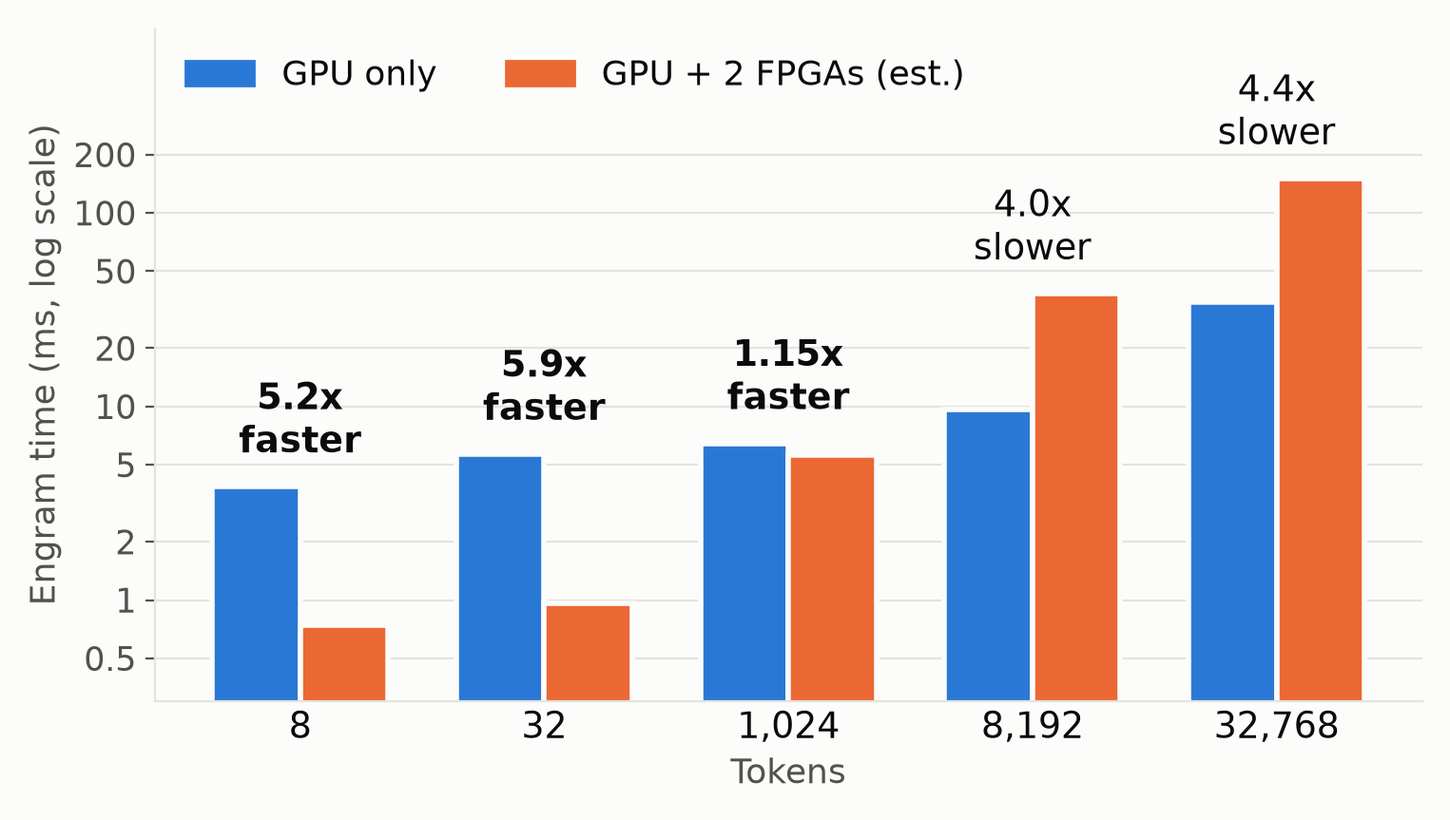
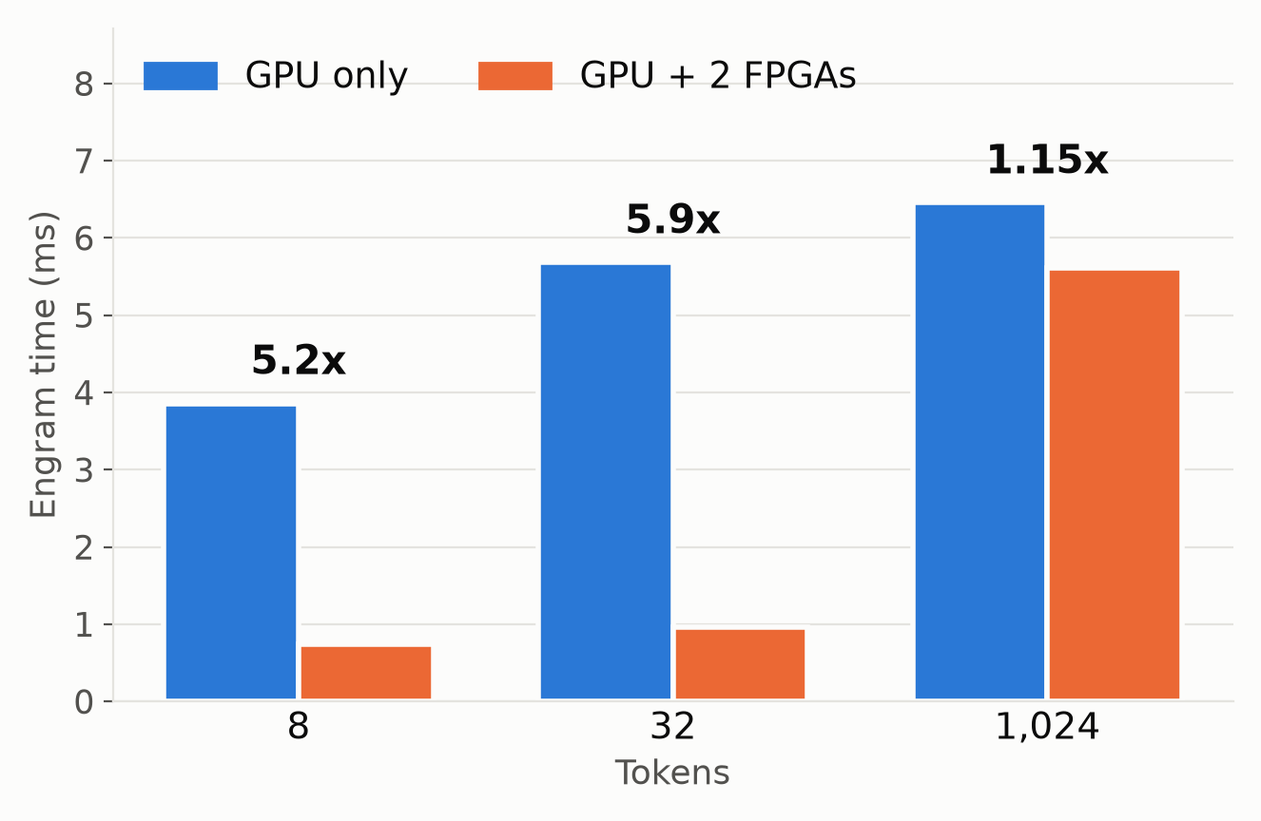
update blogs

diff --git a/figs/src/make_figs.py b/figs/src/make_figs.py
@@ -164,32 +164,28 @@ def load_fpga():
 
 
 def fig_fpga_results():
-    rows = load_fpga()
-    fig, ax = plt.subplots(figsize=(8.6, 4.6))
+    """Only the token counts where the GPU + 2 FPGAs estimate is faster than the GPU alone."""
+    rows = [r for r in load_fpga() if r["engram_gpu"] > r["boards2"]]
+    fig, ax = plt.subplots(figsize=(7.6, 4.6))
     w = 0.36
+    top = max(r["engram_gpu"] for r in rows)
     for i, r in enumerate(rows):
         g, f2 = r["engram_gpu"], r["boards2"]
         ax.bar(i - w / 2, g, width=w, color=NKI, edgecolor=SURF, linewidth=2)
         ax.bar(i + w / 2, f2, width=w, color=GP, edgecolor=SURF, linewidth=2)
         sp = g / f2
-        lab = (f"{sp:.2f}x\nfaster" if sp < 1.5 else f"{sp:.1f}x\nfaster") if sp >= 1 else f"{1 / sp:.1f}x\nslower"
-        ax.text(i, max(g, f2) * 1.3, lab, ha="center", va="bottom", fontsize=13.5, color=INK,
-                weight="bold" if sp >= 1 else "normal")
-    ax.set_yscale("log")
-    ax.set_ylim(0.3, 900)
-    ticks = [0.5, 1, 2, 5, 10, 20, 50, 100, 200]
-    ax.set_yticks(ticks)
-    ax.set_yticklabels([f"{t:g}" for t in ticks])
-    ax.minorticks_off()
+        ax.text(i, max(g, f2) + top * 0.04, f"{sp:.2f}x" if sp < 1.5 else f"{sp:.1f}x",
+                ha="center", va="bottom", fontsize=15, color=INK, weight="bold")
+    ax.set_ylim(0, top * 1.35)
     ax.set_xticks(range(len(rows)))
-    ax.set_xticklabels([f"{int(r['tokens']):,}" for r in rows], color=INK, fontsize=13.5)
+    ax.set_xticklabels([f"{int(r['tokens']):,}" for r in rows], color=INK, fontsize=14)
     ax.set_xlabel("Tokens")
-    ax.set_ylabel("Engram time (ms, log scale)")
+    ax.set_ylabel("Engram time (ms)")
     ax.yaxis.grid(True, color=GRID, lw=0.8)
     ax.set_axisbelow(True)
     ax.tick_params(axis="x", length=0)
-    ax.legend(handles=[Patch(color=NKI, label="GPU only"), Patch(color=GP, label="GPU + 2 FPGAs (est.)")],
-              loc="upper left", frameon=False, ncol=2, fontsize=13)
+    ax.legend(handles=[Patch(color=NKI, label="GPU only"), Patch(color=GP, label="GPU + 2 FPGAs")],
+              loc="upper left", frameon=False, ncol=2, fontsize=13.5)
     save(fig, "fig04_fpga_results.png")
 
 

diff --git a/BLOG.md b/BLOG.md
@@ -14,102 +14,68 @@
 
 #### Table of Contents
 
-- [1. Introduction](#1-introduction)
-  - [1.1 Heterogeneity of Computation Properties in LLMs](#11-heterogeneity-of-computation-properties-in-llms)
-  - [1.2 Example: Engram in DeepSeek-V4.1-Flash, and How We Accelerate It on a GPU-FPGA System](#12-example-engram-in-deepseek-v41-flash-and-how-we-accelerate-it-on-a-gpu-fpga-system)
-  - [1.3 Native Hardware Heterogeneity of Trainium](#13-native-hardware-heterogeneity-of-trainium)
-- [2. What Computation Should We Offload to the GPSIMD Engine?](#2-what-computation-should-we-offload-to-the-gpsimd-engine)
-- [3. Build and Use GPSIMD Custom Operators with NKI](#3-build-and-use-gpsimd-custom-operators-with-nki)
-  - [3.1 Overall Development and Deployment Flow](#31-overall-development-and-deployment-flow)
-  - [3.2 Write Operators in C++](#32-write-operators-in-c)
-  - [3.3 Integrate the Custom Operator with NKI](#33-integrate-the-custom-operator-with-nki)
-  - [3.4 Runtime: What Happens Under the Hood](#34-runtime-what-happens-under-the-hood)
-- [4. Accelerating Engram in DeepSeek-V4.1-Flash with the GPSIMD Engine](#4-accelerating-engram-in-deepseek-v41-flash-with-the-gpsimd-engine)
-  - [4.1 n-gram Hashing](#41-n-gram-hashing)
-  - [4.2 Table Retrieval](#42-table-retrieval)
-  - [4.3 Other Optimization Considerations](#43-other-optimization-considerations)
-  - [4.4 Results and Analysis](#44-results-and-analysis)
-- [5. What Other Operations Can GPSIMD Help With?](#5-what-other-operations-can-gpsimd-help-with)
-- [6. Limitations](#6-limitations)
-- [7. Acknowledgement](#7-acknowledgement)
+- [Introduction](#introduction)
+  - [Heterogeneity of Computation Properties in LLMs](#heterogeneity-of-computation-properties-in-llms)
+  - [Example: Engram in DeepSeek-V4.1-Flash, and How We Accelerate It on a GPU-FPGA System](#example-engram-in-deepseek-v41-flash-and-how-we-accelerate-it-on-a-gpu-fpga-system)
+  - [Native Hardware Heterogeneity of Trainium](#native-hardware-heterogeneity-of-trainium)
+- [What Computation Should We Offload to the GPSIMD Engine?](#what-computation-should-we-offload-to-the-gpsimd-engine)
+- [Build and Use GPSIMD Custom Operators with NKI](#build-and-use-gpsimd-custom-operators-with-nki)
+  - [Overall Development and Deployment Flow](#overall-development-and-deployment-flow)
+  - [Write Operators in C++](#write-operators-in-c)
+  - [Integrate the Custom Operator with NKI](#integrate-the-custom-operator-with-nki)
+  - [Runtime: What Happens Under the Hood](#runtime-what-happens-under-the-hood)
+- [Accelerating Engram in DeepSeek-V4.1-Flash with the GPSIMD Engine](#accelerating-engram-in-deepseek-v41-flash-with-the-gpsimd-engine)
+  - [n-gram Hashing](#n-gram-hashing)
+  - [Table Retrieval](#table-retrieval)
+  - [Other Optimization Considerations](#other-optimization-considerations)
+  - [Results and Analysis](#results-and-analysis)
+- [What Other Operations Can GPSIMD Help With?](#what-other-operations-can-gpsimd-help-with)
+- [Limitations](#limitations)
+- [Acknowledgement](#acknowledgement)
 
 ---
 
-### 1. Introduction
+### Introduction
 
-#### 1.1 Heterogeneity of Computation Properties in LLMs
+#### Heterogeneity of Computation Properties in LLMs
 
-Modern LLMs depend on mechanisms that select and read a small part of a large memory: sparse attention selects key-value entries, retrieval-augmented generation (RAG) selects documents, and compressed memories select memory slots. Our study of these mechanisms [1] showed that all of the mechanisms share one **memory processing pipeline** of four steps (Figure 2):
+Modern LLMs depend on complex mechanisms to manage their memory: sparse attention selects key-value entries, retrieval-augmented generation (RAG) selects documents, and compressed memories select memory slots. Prior works published in ICML 2026 [1] showed that these mechanisms share a **memory processing pipeline** of four steps (Figure 2):
 
 1. **Prepare Memory**: turn the memory into a form that is easy to search and use (for example, indexing vectors).
 2. **Compute Relevancy**: score or identify the memory entries that matter for the current input.
 3. **Retrieval**: select and fetch the relevant subset.
 4. **Apply to Inference**: feed the retrieved memory into the rest of the model.
 
-The profiles in [1] showed that memory processing takes a large share of inference time (for example, 22% to 81% of decoding time for sparse attention at 1M tokens, and 40% to 61% for RAG over 20M documents). The steps also have very different computational characteristics. Prepare Memory and Apply to Inference are usually dense and regular. Compute Relevancy and Retrieval are often sparse, irregular, data-dependent and memory-bound, and GPUs leave much of their compute and memory bandwidth unused on such steps. [1] therefore **disaggregated** the pipeline over a GPU-FPGA heterogeneous inference system [2]: the dense steps stayed on the GPU and the irregular steps moved to the FPGA, for up to 2.2x faster inference and up to 4.7x lower energy. [1] also found that the cost of moving data over PCIe sometimes overrules the preferred placement of a step.
+The key is that these steps have very different computational characteristics. Some steps are dense and regular computations, whereas others are irregular and data dependent. Therefore, a natural approach of acceleration is **fine-grain disaggregated** inference on **heterogeneous platforms**. [1] applies a GPU-FPGA heterogeneous system [2]: the dense steps stayed on the GPU and the irregular steps moved to the FPGA, for up to 2.2x faster inference and up to 4.7x lower energy. Such methodology is also transferable to more recent LLMs.
 
 ![Figure 2: the memory processing pipeline](figs/fig02_pipeline.png)
 *Figure 2. The four-step memory processing pipeline in LLMs, from [1].*
 
-#### 1.2 Example: Engram in DeepSeek-V4.1-Flash, and How We Accelerate It on a GPU-FPGA System
+#### Example: Engram in DeepSeek-V4.1-Flash, and How We Accelerate It on a GPU-FPGA System
 
-**Engram** [3] gives a language model a large, hashed n-gram memory. For every token, the model hashes the token together with the preceding tokens, looks up learned vectors for the resulting n-grams in a huge table, and adds a gated projection of the vectors to the hidden state. DeepSeek-V4.1-Flash has Engram in layers 1 and 14. The four steps of its memory processing pipeline are:
+DeepSeek-V4.1-Flash [3] is the recent 40-layer mixture-of-experts (MoE) reasoning model from DeepSeek. It combines sparse attention with MoE layers of 384 routed experts, 6 of which serve each token. Layers 1 and 14 also have an **Engram** module [4] that gives the model a large n-gram memory. For each token, Engram hashes the token and its preceding tokens into row ids, reads these rows from a large learned table, and adds a gated projection of the rows to the hidden state. Engram maps to the memory processing pipeline as follows:
 
-- **Prepare Memory.** The table is trained offline: 384M rows of 256 bf16 values, sharded by row over 64 ranks (6.0M rows, 3.1 GB per rank). At run time, NKI collects each token's n-gram window: the token's compressed id and the ids of the 3 preceding tokens.
-- **Compute Relevancy.** An n-gram hash turns each window into row ids. For each n-gram size n = 2, 3, 4, every token id in the window is multiplied by a 64-bit constant for its position, the products are combined with XOR, and the result is reduced modulo one of 8 primes (all just above 16M), plus an offset per hash column. Each token gets 3 × 8 = 24 row ids per Engram layer. Unlike sparse attention, the relevancy is a deterministic address, not a score.
-- **Retrieval.** Each rank gathers the rows that the rank holds into an embedding `emb` of shape [T, 24 × 256] and leaves the other rows zero; an all-reduce over the 64 ranks completes `emb`.
-- **Apply to Inference.** An fp8 MX GEMM projects `emb` from 6144 to 25600 values (5 × 5120: 4 keys and 1 value), and a gate adds the value to each of the 4 residual streams, scaled by a normalized dot product of the stream's hidden state and its key.
+- **Prepare Memory.** The table is trained offline. In DeepSeek-V4.1-Flash, each Engram layer has 384M rows of 256 bf16 values. At run time, each token's n-gram window is collected: the token's compressed id and the ids of the 3 preceding tokens.
+- **Compute Relevancy.** An n-gram hash turns each window into row ids. For n = 2, 3, 4, the hash multiplies each token id by a 64-bit constant, combines the products with XOR, and reduces the result modulo one of 8 primes of about 16M. Each token gets 3 × 8 = 24 row ids per layer.
+- **Retrieval.** The 24 rows of each token are read into an embedding `emb` of shape [T, 24 × 256].
+- **Apply to Inference.** A GEMM projects `emb` to 4 keys and 1 value of 5120 values each. A gate adds the value to each of the 4 residual streams, scaled by the dot product of the stream's hidden state and its key.
 
-The steps have different computational characteristics. Compute Relevancy is 64-bit integer arithmetic, and Retrieval is a data-dependent lookup with irregular, non-consecutive memory accesses. Apply to Inference is dense floating-point work: a GEMM and a gate.
+We also tried to deploy Engram on our GPU-FPGA heterogeneous system to demonstrate the effectiveness of such abstraction [2]. Here we use the original demo of Engram in [5]:
 
-We applied the disaggregation of [1] to Engram on a GPU-FPGA system. The GPU-FPGA implementation is part of HeteroLLM [2]. The experiment uses the reference configuration that DeepSeek released with the Engram paper [4], not the configuration of DeepSeek-V4.1-Flash that the rest of this blog uses, so the times in this section do not compare directly with the Trainium times later in the blog:
-
-| | Engram reference configuration [4] (GPU-FPGA experiment) | DeepSeek-V4.1-Flash [5] (Trainium experiments) |
-|---|---|---|
-| Hidden size × residual streams | 1024 × 4 | 5120 × 4 |
-| n-gram sizes × hash heads | {2, 3} × 8 = 16 lookups per token | {2, 3, 4} × 8 = 24 lookups per token |
-| Table rows per hash head | about 646K | about 16M |
-| Values per table row | 64 | 256 |
-| Memory vector `e` per token | 1024 values | 6144 values |
-| Key and value projection | 1024 -> 5 × 1024 (4 keys, 1 value) | 6144 -> 5 × 5120 (4 keys, 1 value) |
-
-**Setup.** The GPU is an AMD Instinct MI210, and the FPGA is an AMD Alveo U55C board with 16 GB of HBM. The FPGA kernel is written in TAPA (C++ high-level synthesis) and computes with 16-bit fixed-point tables and weights. The GPU-only baseline is the reference PyTorch implementation of Engram [4]: the reference code computes the hash on the host CPU with numpy, copies the ids to the GPU, and runs the other stages as PyTorch operators in fp32.
-
-The Engram module of one layer has five stages. Figure 3 shows how we split the stages between the FPGA and the GPU:
-
-- **FPGA**: the multiply-XOR hash of each n-gram (Compute Relevancy), the load of the 16 embedding rows of each token from the hashed tables (Retrieval), and the key and value projections of the loaded embeddings. The hash unit takes one token per cycle and computes all 16 table ids in parallel. 16 lookup units, one per hash head, read the rows from separate HBM channels. 8 projection units keep the 5120 × 1024 weight matrix in on-chip memory (URAM), each unit with 128 of the 1024 columns, and add their partial results in a chain.
-- **GPU**: three HIP kernels. The gate normalizes the key and the hidden state of each branch, computes a scaled dot product, and scales the value by a sigmoid of the dot product. The short convolution normalizes the gated value and applies a depthwise causal convolution (kernel 4, dilation 3) and SiLU. The last kernel adds the residual.
-
-The cut follows the data dependencies. The hash, the load and the projections depend only on the token ids, so the FPGA computes these stages without the hidden state. The gate and the convolution need the hidden state, which the GPU produces in the previous layer. The FPGA writes the keys and the value of every token (5 × 1024 fp32 values, 20 KB) into a buffer in its HBM that the GPU can read over PCIe.
+- **FPGA: Compute Relevancy, Retrieval, and the key and value projections.** A hash unit computes the 16 row ids of one token per cycle. 16 lookup units read the rows from separate HBM channels. 8 projection units keep the weights in on-chip memory.
+- **GPU: the gate, a short convolution, and the residual add.** These steps need the hidden state from the previous layer.
 
 ![Figure 3: the GPU-FPGA split of Engram](figs/fig03_fpga_split.png)
-*Figure 3. The GPU-FPGA split of the Engram module in HeteroLLM [2]. The FPGA runs the steps that depend only on the token ids; the GPU runs the steps that need the hidden state h. Engram reference configuration [4] (hidden size 1024), not DeepSeek-V4.1-Flash.*
+*Figure 3. The GPU-FPGA split of Engram in HeteroLLM [2]. h is the hidden state.*
 
-On the GPU alone, at 1024 tokens, the module takes 6.46 ms: 1.26 ms for the hash, 0.38 ms for the load, 3.85 ms for the projections and the gate together, and 0.87 ms for the convolution. The table below lists all measurements. The GPU-FPGA time is the FPGA kernel time plus the GPU kernel time, without overlap between the two devices and without the transfer of the keys and the value. The two-board time is an estimate: the FPGA time is divided by two, as if each board processes half of the tokens.
-
-| Tokens | Engram, GPU only (reference code) | Engram, GPU + FPGA: FPGA part (1 board) | GPU part | Engram, GPU + 2 FPGA boards (estimate) | Speedup with 2 boards |
-|---:|---:|---:|---:|---:|---:|
-| 8 | 3.86 ms | 0.39 ms | 0.55 ms | 0.74 ms | **5.2x** |
-| 32 | 5.68 ms | 0.59 ms | 0.66 ms | 0.96 ms | **5.9x** |
-| 1,024 | 6.46 ms | 9.51 ms | 0.86 ms | 5.61 ms | 1.15x |
-| 8,192 | 9.68 ms | 73.3 ms | 1.61 ms | 38.3 ms | 0.25x |
-| 32,768 | 34.4 ms | 295.2 ms | 2.98 ms | 150.6 ms | 0.23x |
+The baseline is the reference code [5] on the GPU, which computes the hash on the host CPU. With 2 AMD U55C FPGAs and 1 AMD MI210 GPU, Engram is 5.2x faster at 8 tokens, 5.9x faster at 32 tokens and 1.15x faster at 1024 tokens. The gain is largest at few tokens, as in decode. There, most of the baseline time is a fixed cost per call: the hash on the host, the copy of the ids, and many small GPU operators. At 8 tokens, the baseline spends 0.98 ms on the hash alone, while the FPGA takes 0.39 ms for the hash, the lookup and the projections together. 
 
 ![Figure 4: Engram on the GPU alone and on the GPU with 2 FPGA boards](figs/fig04_fpga_results.png)
-*Figure 4. The Engram module on the GPU alone (reference PyTorch code) and on the GPU with 2 FPGA boards (estimated as the FPGA time divided by 2, plus the GPU time). Engram reference configuration [4], not DeepSeek-V4.1-Flash.*
+*Figure 4. Engram on the GPU alone and on the GPU with 2 FPGA boards. Engram reference configuration [5].*
 
-Figure 4 shows two regimes:
+The prototype shows that Engram gains from moving its irregular steps to flexible hardware. This technique is transferable to AWS Trainium devices: Trainium NeuronCore is natively heterogeneous.
 
-- **Few tokens: the split wins.** For 8 and 32 tokens, the GPU-only version takes 3.86 ms and 5.68 ms. The GPU-only time hardly depends on the number of tokens: 128 times more tokens (8 to 1024) take only 1.7 times longer. Most of the GPU-only time is therefore a fixed cost per call, such as the hash on the host, the copy of the ids and the launch of many small operators, not work per token. In the GPU-only version, the hash alone takes 0.98 ms for 8 tokens, 2.5 times the 0.39 ms that the FPGA needs for the hash, the load and the projections together. With two boards, the module becomes 5.2x faster for 8 tokens and 5.9x faster for 32 tokens. A decode step processes few tokens, so decode falls in this regime. Part of the gain comes from the implementation and not only from the hardware: the baseline is the unoptimized reference code, while the GPU side of the split uses fused HIP kernels.
-- **Many tokens: the split loses.** From 1024 tokens on, the FPGA time grows in proportion to the number of tokens (about 9 µs per token), while the GPU-only time grows slowly (from 6.46 ms at 1024 tokens to 34.4 ms at 32768 tokens). The hash and the load take little time per token on the FPGA, but the projections multiply each memory vector by the 5120 × 1024 weight matrix: 5.2M multiply-accumulates per token, or about 0.6 trillion multiply-accumulates per second at 9 µs per token. The GPU runs the same dense projection much faster. At 8192 and 32768 tokens, the GPU-FPGA version is 4.0x and 4.4x slower than the GPU alone, even with two boards and without counting the transfers. Four boards would still be 2.1x and 2.2x slower (estimated the same way).
-
-The experiment gives three lessons for a disaggregated design:
-
-1. **Irregular steps gain the most from flexible hardware, especially at small sizes.** The hash and the table load are integer and memory steps; the GPU reference code does not even run the hash on the GPU.
-2. **Dense steps must stay on dense hardware at every size.** The projections on the FPGA limit the split at long sequences.
-3. **The hand-off between the devices limits where the cut can go.** As [1] also found, every cut between a GPU and an FPGA adds a PCIe transfer and a synchronization.
-
-#### 1.3 Native Hardware Heterogeneity of Trainium
+#### Native Hardware Heterogeneity of Trainium
 
 **AWS Trainium** is a family of AI accelerators designed by Annapurna Labs. A trn3.48xlarge instance exposes 64 logical NeuronCores (each made of 2 physical NeuronCores). Like Trainium 2, a Trainium 3 NeuronCore is a heterogeneous processor (Figure 5). The **Tensor Engine** is a 128x128 systolic array for matrix multiplication. The **Vector Engine** and the **Scalar Engine** apply element-wise operations, reductions and activation functions to tiles of up to 128 partitions. The **Sync Engine** issues queued DMA transfers. All engines read and write the on-chip **SBUF**, and the Tensor Engine accumulates into **PSUM**.
 
@@ -120,13 +86,13 @@ The fifth engine, the **GPSIMD Engine** (named "Pool" in the NEFF), is different
 
 The **Neuron Kernel Interface (NKI)** is the Python kernel language for Trainium [6]. NKI exposes the GPSIMD Engine only through built-in instructions: tensor operations with `engine=gpsimd`, `iota`, and the descriptor generation of indirect DMAs ("software DGE"). Every built-in instruction is a whole-tile operation with a fixed meaning, executed by the firmware on all 8 cores. NKI has no way to run new code on the cores. Trainium 1 had a C++ custom-operator path (`AwsNeuronCustomOp`), but the compiler rejects that path for Trainium 2 and Trainium 3 targets (error `NCC_EVRF030`).
 
-A Trainium 3 NeuronCore already contains both kinds of hardware. The Tensor, Vector and Scalar Engines are wide and fast for regular work, and the GPSIMD cores are flexible for irregular integer work. Both sides read and write the same SBUF, so moving a step from one side to the other costs one semaphore hand-off of a few microseconds instead of a PCIe transfer. A cheap hand-off allows a finer cut than the GPU-FPGA split: on Trainium 3, only the hash and one compaction step go to the GPSIMD cores, while the table gathers, the projections and the gate stay on the NKI engines (Section 4).
+A Trainium 3 NeuronCore already contains both kinds of hardware. The Tensor, Vector and Scalar Engines are wide and fast for regular work, and the GPSIMD cores are flexible for irregular integer work. Both sides read and write the same SBUF, so moving a step from one side to the other costs one semaphore hand-off of a few microseconds instead of a PCIe transfer. A cheap hand-off allows a finer cut than the GPU-FPGA split: on Trainium 3, only the hash and one compaction step go to the GPSIMD cores, while the table gathers, the projections and the gate stay on the NKI engines (see the [Engram section](#accelerating-engram-in-deepseek-v41-flash-with-the-gpsimd-engine)).
 
-The missing piece was a way to run custom code on the GPSIMD cores. Section 2 discusses which computations should move to the cores. Section 3 describes our toolchain, which compiles C++ operators for the cores and places the operators inside NKI kernels. Section 4 applies the toolchain to the Engram module of DeepSeek-V4.1-Flash, against the hand-optimized NKI code of a DeepSeek-V4.1-Flash port for Trainium 3 [5].
+The missing piece was a way to run custom code on the GPSIMD cores. We first discuss [which computations should move to the cores](#what-computation-should-we-offload-to-the-gpsimd-engine). We then describe [our toolchain](#build-and-use-gpsimd-custom-operators-with-nki), which compiles C++ operators for the cores and places the operators inside NKI kernels. Finally, we [apply the toolchain](#accelerating-engram-in-deepseek-v41-flash-with-the-gpsimd-engine) to the Engram module of DeepSeek-V4.1-Flash, against the hand-optimized NKI code of a DeepSeek-V4.1-Flash port for Trainium 3 [7].
 
 ---
 
-### 2. What Computation Should We Offload to the GPSIMD Engine?
+### What Computation Should We Offload to the GPSIMD Engine?
 
 Each engine of a NeuronCore fits a different kind of computation:
 
@@ -169,24 +135,24 @@ The GPSIMD cores are fast at integer work in local RAM, slow at floating point, 
 
 ---
 
-### 3. Build and Use GPSIMD Custom Operators with NKI
+### Build and Use GPSIMD Custom Operators with NKI
 
-#### 3.1 Overall Development and Deployment Flow
+#### Overall Development and Deployment Flow
 
-The Neuron compiler turns an NKI kernel into a NEFF, a binary with one instruction stream per engine. Our toolchain does not change the compiler. Instead, it edits the compiled NEFF, using the NEFF format documented in [7], to place each custom operator in the GPSIMD Engine's instruction stream. Figure 6 shows the flow:
+The Neuron compiler turns an NKI kernel into a NEFF, a binary with one instruction stream per engine. Our toolchain does not change the compiler. Instead, it edits the compiled NEFF, using the NEFF format documented in [8], to place each custom operator in the GPSIMD Engine's instruction stream. Figure 6 shows the flow:
 
-1. **Write** the operator in C++ (Section 3.2).
-2. **Mark** the call site in the NKI kernel with `gp.call(...)`, and compile the kernel with the NKI compiler as usual (Section 3.3).
-3. **Build** the operator library: the toolchain reads each tile's SBUF location from the compiled NEFF and compiles the C++ operator for the GPSIMD cores (Section 3.3).
-4. **Inject** the library into the NEFF and replace the marked instructions with one `KERNEL_CALL` (Section 3.3).
-5. **Load and run** the NEFF with the Neuron runtime (Section 3.4).
+1. **Write** the operator in C++ ([Write Operators in C++](#write-operators-in-c)).
+2. **Mark** the call site in the NKI kernel with `gp.call(...)`, and compile the kernel with the NKI compiler as usual ([Integrate the Custom Operator with NKI](#integrate-the-custom-operator-with-nki)).
+3. **Build** the operator library: the toolchain reads each tile's SBUF location from the compiled NEFF and compiles the C++ operator for the GPSIMD cores ([Integrate the Custom Operator with NKI](#integrate-the-custom-operator-with-nki)).
+4. **Inject** the library into the NEFF and replace the marked instructions with one `KERNEL_CALL` ([Integrate the Custom Operator with NKI](#integrate-the-custom-operator-with-nki)).
+5. **Load and run** the NEFF with the Neuron runtime ([Runtime: What Happens Under the Hood](#runtime-what-happens-under-the-hood)).
 
 `gpsimd-build` runs all steps for an example directory, and `gp.compile` runs them from Python.
 
 ![Figure 6: the toolchain](figs/fig06_toolchain.png)
 *Figure 6. Development and deployment flow; the numbers are the steps listed above. Blue: NKI kernel and NEFF. Orange: the GPSIMD operator. The compiled NEFF is edited, not regenerated.*
 
-#### 3.2 Write Operators in C++
+#### Write Operators in C++
 
 An operator is a C++ function that runs on all 8 cores at the same time. The runtime library gives each core typed views of the call's SBUF tiles, a share of the work, and asynchronous iDMA copies between SBUF, HBM and the core's local RAM:
 
@@ -209,7 +175,7 @@ GPSIMD_OP(vadd_i32) {                         // extern "C" void vadd_i32(gp_cal
 
 The runtime also provides a barrier, all-reduce, exclusive scan, a software lock for cross-core cooperation, IEEE float32 in software (`gp::f32`, bit-identical to numpy), and math functions. The compiler wrapper rejects code that the Trainium 3 cores cannot run: hardware floating point, vector (FLIX) instructions, and exclusive-access atomics all hang on these cores.
 
-#### 3.3 Integrate the Custom Operator with NKI
+#### Integrate the Custom Operator with NKI
 
 **Mark the call site.** The NKI side passes SBUF tiles to `gp.call`:
 
@@ -240,7 +206,7 @@ The NKI compiler knows nothing about custom operators, so `gp.call` emits **mark
 - **The runtime** (`rt.c`): dispatch on all 8 cores, the iDMA driver, barrier and reductions, a log ring, and a per-core receipt.
 - **The layout the firmware expects**: code at `0x01000000`, data at `0x02000000`, a GNU build-id, and one ELF note (owner `Neuron`, type 2) per entry function. Code must fit in 64 KB and static data in about 7 KB; large buffers live on the stack (up to 64 KB in our examples).
 
-**Inject the operator into the NEFF.** `gpsimd-neff inject` edits the NEFF in place of the compiler. A NEFF is a 1024-byte header plus a tar archive with one instruction stream per engine [7]. Injection adds two files and one key to the archive:
+**Inject the operator into the NEFF.** `gpsimd-neff inject` edits the NEFF in place of the compiler. A NEFF is a 1024-byte header plus a tar archive with one instruction stream per engine [8]. Injection adds two files and one key to the archive:
 
 ```text
 final.neff
@@ -267,7 +233,7 @@ The GPSIMD Engine's instructions report completion on semaphore S[3], and every 
 
 The injector also handles NKI's dynamic control flow (`nl.fori_loop` with a trip count loaded into a register at run time), which the Engram retrieval needs. The compiler splits such programs into blocks, and at each block boundary every engine drains, synchronizes and resets its semaphores (`EVENT_SEMAPHORE_RANGE_CLEAR`, opcode `0xB0`). The injector therefore renumbers waits only up to each engine's first reset, requires every `gp.call` to come before the first dynamic loop, and relocates the absolute instruction index of the `0xDD` jump instruction after inserting slots.
 
-#### 3.4 Runtime: What Happens Under the Hood
+#### Runtime: What Happens Under the Hood
 
 The Neuron runtime reads `gpsimd_kernels_def` when the runtime loads the NEFF, and the firmware copies `ops.so` from HBM into the local RAM of all 8 cores with the iDMA. At each `KERNEL_CALL`, the firmware calls the operator's entry function on all 8 cores, with the core index as an argument.
 
@@ -277,18 +243,20 @@ After every execution, each core writes a receipt: its processor id, the number 
 
 ---
 
-### 4. Accelerating Engram in DeepSeek-V4.1-Flash with the GPSIMD Engine
+### Accelerating Engram in DeepSeek-V4.1-Flash with the GPSIMD Engine
 
-Section 1.2 introduced Engram and its four steps. Figure 7 shows our split between the GPSIMD cores and NKI on one NeuronCore:
+The [Introduction](#example-engram-in-deepseek-v41-flash-and-how-we-accelerate-it-on-a-gpu-fpga-system) described Engram and its four steps. Figure 7 shows our split between the GPSIMD cores and NKI on one NeuronCore:
 
 ![Figure 7: Engram on the memory processing pipeline](figs/fig07_engram_split.png)
 *Figure 7. The Engram computation of one layer in the four-step memory processing pipeline of [1], split between GPSIMD custom operators and NKI.*
 
-Compared with the GPU-FPGA split of Figure 3, the cut is finer: the GPSIMD cores take only the integer steps (the hash and a hit compaction). The gathers, the gate and the projection GEMM, which limited the FPGA at long sequences, stay on the NKI engines.
+Compared with the GPU-FPGA split of Figure 3, the cut is finer: the GPSIMD cores take only the integer steps (the hash and a hit compaction). The gathers, the gate and the projection GEMM stay on the NKI engines.
 
-**Baseline and setup.** The baseline is the hand-optimized NKI code of the DeepSeek-V4.1-Flash port in [5] (branch `deepseek_v41_trn3`, commit `3b74533`). Each experiment copies the port's NKI helper modules without changes, runs the whole Engram computation on one NeuronCore, and changes only the part named in each section. The table shard has the deployed size (6,000,097 rows, 3.1 GB) with random values, and the row ids follow the hash distribution of the model. The collectives are not run. Latency is the median `total_exec_time` of 5 profiled executions in Neuron Explorer [6]. Every output of the GPSIMD version is checked against a numpy reference and against the NKI version: the n-gram ids equal an exact Python-integer reference, `emb` is exact, and the read-out output is bit-identical to the output of the port.
+**Sharding.** The port splits each Engram table by row over 64 ranks (6.0M rows, 3.1 GB per rank). Each rank reads only the rows it holds into `emb` and leaves the other rows zero. An all-reduce over the 64 ranks then completes `emb`.
 
-#### 4.1 n-gram Hashing
+**Baseline and setup.** The baseline is the hand-optimized NKI code of the DeepSeek-V4.1-Flash port in [7] (branch `deepseek_v41_trn3`, commit `3b74533`). Each experiment copies the port's NKI helper modules without changes, runs the whole Engram computation on one NeuronCore, and changes only the part named in each section. The table shard has the deployed size (6,000,097 rows, 3.1 GB) with random values, and the row ids follow the hash distribution of the model. The collectives are not run. Latency is the median `total_exec_time` of 5 profiled executions in Neuron Explorer [6]. Every output of the GPSIMD version is checked against a numpy reference and against the NKI version: the n-gram ids equal an exact Python-integer reference, `emb` is exact, and the read-out output is bit-identical to the output of the port.
+
+#### n-gram Hashing
 
 The port computes the n-gram ids of both Engram layers (48 ids per token) once per decode step, in its step prologue. A decode step of 10 sequences verifies 1 + 5 drafted tokens per sequence, so the hash runs on T = 60 rows.
 
@@ -310,7 +278,7 @@ if (r >= p) r -= p;
 if (r >= p) r -= p;
 ```
 
-#### 4.2 Table Retrieval
+#### Table Retrieval
 
 Each hash column j covers its own range of about 16M global rows, and rank r holds 6.0M consecutive rows. A rank's shard therefore overlaps at most 2 of the 24 columns of a layer, and only about 0.375 of a token's 24 lookups (1.5%) hit the rank. In our prefill chunk of T = 1024 tokens, rank 21 holds 372 of the 24,576 rows.
 
@@ -341,7 +309,7 @@ nl.fori_loop(0, reg, chunk, step=1)     # chunk(b): load 128 (table row, emb row
 
 NKI alone cannot do this compaction efficiently. `nonzero_with_count` compacts within one partition row, so the ids would first need a different layout, and the compacted indices would need a second indirect gather. Skipped indices cost as much as valid ones, and a run-time loop costs 2.4 µs per iteration.
 
-#### 4.3 Other Optimization Considerations
+#### Other Optimization Considerations
 
 **Tune the operator for the GPSIMD cores.** The n-gram hashing operator went through three versions. The first version processed one row at a time and reduced each value with Horner's rule over 8-bit chunks, one 32-bit Barrett step per chunk (5 steps per value); at 93.8 µs, the first version was slower than NKI (0.93x). Processing column by column keeps each prime's constants in registers, and skipping the padding rows of the 128-row tile brought the time to 62.2 µs. The final 64-bit Barrett reduction above needs 6 multiplies and at most 3 corrections per value, for 48.45 µs (1.79x).
 
@@ -349,7 +317,7 @@ NKI alone cannot do this compaction efficiently. `nonzero_with_count` compacts w
 
 **Keep dense work and data movement in NKI.** The fp8 GEMM and the gate are dense floating-point work, so the two operators leave them in the port's NKI code. The window gathers of the hashing and the row gathers of the retrieval also stay in NKI as indirect DMAs; the operators only compute the ids and the list of hits.
 
-#### 4.4 Results and Analysis
+#### Results and Analysis
 
 The table below lists all results. The read-out is one Engram layer: table retrieval, fp8 GEMM and gate. Whole Engram is the n-gram hashing (one call computes the ids of both Engram layers) plus the read-out of both layers, as in Figure 1.
 
@@ -392,17 +360,17 @@ Figure 12 shows the effect of Amdahl's law. The retrieval stage is 14% to 15% of
 
 ---
 
-### 5. What Other Operations Can GPSIMD Help With?
+### What Other Operations Can GPSIMD Help With?
 
-Nothing in the method is specific to Engram: any step that meets the criteria of Section 2 is a candidate. Before Engram, we used the same toolchain on kernels of the [NKI Library](https://github.com/aws-neuron/nki-library) and measured, against the library's NKI implementations: argsort 6.6x to 40x, BM25 scoring 15x to 27x, scatter-add with duplicate indices 4.45x, MoE dispatch metadata 2.25x to 5x and MoE token permutation 1.42x.
+Nothing in the method is specific to Engram: any step that meets the [offload criteria](#what-computation-should-we-offload-to-the-gpsimd-engine) is a candidate. Before Engram, we used the same toolchain on kernels of the NKI Library [9] and measured, against the library's NKI implementations: argsort 6.6x to 40x, BM25 scoring 15x to 27x, scatter-add with duplicate indices 4.45x, MoE dispatch metadata 2.25x to 5x and MoE token permutation 1.42x.
 
 A GPSIMD operator is not always the best choice. For the expert-parallel MoE dispatch of Qwen3-235B at decode size (router, token permutation and all-to-all metadata), a hand-optimized NKI version (37.0 µs) beat our GPSIMD version (39.3 µs), although the GPSIMD version was 4.95x faster than the NKI Library version (194.7 µs). In DeepSeek-V4.1-Flash, we also found no gain for three other candidates: deduplicating the key fetches of prefill sparse attention (the dedup needs data-dependent sizes, and NKI pays for skipped indices and run-time loops), MoE at decode (the time is weight streaming), and the mHC and DSpark computations (floating point). The lesson matches [1]: a disaggregated design pays off when each part goes to the hardware that suits the part, and the best NKI implementation is the baseline that decides whether a GPSIMD operator is worth the call.
 
 ---
 
-### 6. Limitations
+### Limitations
 
-**Engram is a small part of end-to-end inference.** We estimated the time of the Engram computation from the port's own profile of DeepSeek-V4.1-Flash on 64 logical NeuronCores [5] (`PROFILE_REPORT_tp64_opt10.md`, rank 0), as the difference between each Engram block and a block of the same kind without Engram (`r0_e` vs `r0`, `r2_src_idx_e` vs `r2_src_idx`):
+**Engram is a small part of end-to-end inference.** We estimated the time of the Engram computation from the port's own profile of DeepSeek-V4.1-Flash on 64 logical NeuronCores [7] (`PROFILE_REPORT_tp64_opt10.md`, rank 0), as the difference between each Engram block and a block of the same kind without Engram (`r0_e` vs `r0`, `r2_src_idx_e` vs `r2_src_idx`):
 
 | Phase | End-to-end time | Engram (estimated) | Share |
 |---|---:|---:|---:|
@@ -425,7 +393,7 @@ The n-gram hashing runs in the decode step prologue, which takes 0.12 ms to 0.49
 
 ---
 
-### 7. Acknowledgement
+### Acknowledgement
 
 This work is supported by the AWS Build on Trainium program at UCLA. We used [AutoHelix](https://github.com/awslabs/AutoHelix) as the agentic loop harness to optimize the kernel, with special modifications to add constraints based on human experts. We would like to thank Ellen Hermansen from the Amazon Research Initiative team for providing AWS access and promotional credits, Amit Kachroo for providing technical insights in the Amazon Science Hub program, and James Hamilton for the continuous support on providing latest Trainium instances. The toolchain, examples and case studies are in this repository: `toolchain/` (tools, runtime, 19 examples), `nkiopt/cases/ds41_engram` and `nkiopt/cases/ds41_ngram` (the case study), and `figs/` (figures and the profile data behind them).
 
@@ -433,14 +401,18 @@ References:
 
 [1] Zifan He, Rui Ma, Yizhou Sun, Jason Cong. [Understand and Accelerate Memory Processing Pipeline for Large Language Model Inference](https://arxiv.org/abs/2603.29002). arXiv:2603.29002.
 
-[2] [HeteroLLM](https://github.com/OswaldHe/HeteroLLM), the GPU-FPGA heterogeneous inference framework, with the Engram implementation of Section 1.2 (`kernels/deepseek_engram`).
+[2] [HeteroLLM](https://github.com/OswaldHe/HeteroLLM), the GPU-FPGA heterogeneous inference framework, with the Engram implementation described in the [Introduction](#example-engram-in-deepseek-v41-flash-and-how-we-accelerate-it-on-a-gpu-fpga-system) (`kernels/deepseek_engram`).
 
-[3] DeepSeek-AI. [Conditional Memory via Scalable Lookup: A New Axis of Sparsity for Large Language Models](https://arxiv.org/abs/2601.07372). arXiv:2601.07372.
+[3] DeepSeek-AI. [DeepSeek-V4.1-Flash](https://huggingface.co/deepseek-ai/DeepSeek-V4.1-Flash), model card on Hugging Face.
 
-[4] DeepSeek-AI. [Engram reference implementation](https://github.com/deepseek-ai/Engram) (`engram_demo_v1.py`), the reference configuration and the GPU-only baseline of the GPU-FPGA experiment (run from the copy in [2], `kernels/deepseek_engram/engram_demo.py`).
+[4] DeepSeek-AI. [Conditional Memory via Scalable Lookup: A New Axis of Sparsity for Large Language Models](https://arxiv.org/abs/2601.07372). arXiv:2601.07372.
 
-[5] [DeepSeek-V4.1-Flash port for Trainium 3 in vllm-neuron](https://github.com/OswaldHe/vllm-neuron/tree/deepseek_v41_trn3/contrib/models/deepseek_v41/src) (branch `deepseek_v41_trn3`), the hand-optimized NKI baseline and the end-to-end profile.
+[5] DeepSeek-AI. [Engram reference implementation](https://github.com/deepseek-ai/Engram) (`engram_demo_v1.py`), the reference configuration and the GPU-only baseline of the GPU-FPGA experiment (run from the copy in [2], `kernels/deepseek_engram/engram_demo.py`).
 
 [6] AWS Neuron documentation: [Trainium2 Architecture](https://awsdocs-neuron.readthedocs-hosted.com/en/latest/about-neuron/arch/neuron-hardware/trainium2.html) (the source of Figure 5), [About NKI](https://awsdocs-neuron.readthedocs-hosted.com/en/latest/nki/get-started/about/index.html) and [Neuron Explorer](https://awsdocs-neuron.readthedocs-hosted.com/en/latest/tools/neuron-explorer/index.html), the profiler used for every measurement.
 
-[7] [Accelerate Below Kernel Level: NEFF-based Performance Optimization on AWS Trainium](https://github.com/OswaldHe/neuron-neff-doc/blob/main/BLOG.md), the NEFF format that the toolchain uses to inject GPSIMD custom operators.
+[7] [DeepSeek-V4.1-Flash port for Trainium 3 in vllm-neuron](https://github.com/OswaldHe/vllm-neuron/tree/deepseek_v41_trn3/contrib/models/deepseek_v41/src) (branch `deepseek_v41_trn3`), the hand-optimized NKI baseline and the end-to-end profile.
+
+[8] [Accelerate Below Kernel Level: NEFF-based Performance Optimization on AWS Trainium](https://github.com/OswaldHe/neuron-neff-doc/blob/main/BLOG.md), the NEFF format that the toolchain uses to inject GPSIMD custom operators.
+
+[9] [NKI Library](https://github.com/aws-neuron/nki-library), the NKI kernels used as baselines for the other GPSIMD operators.
